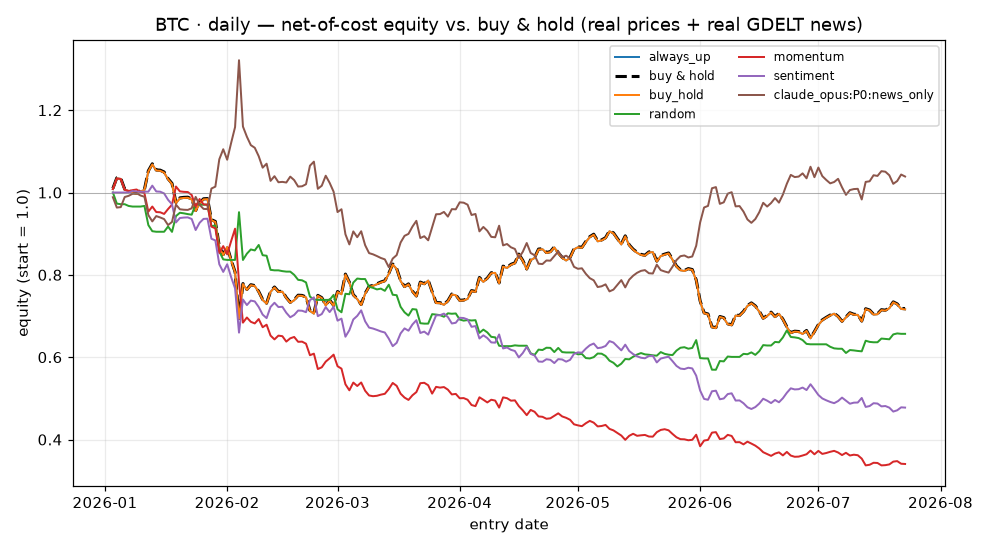
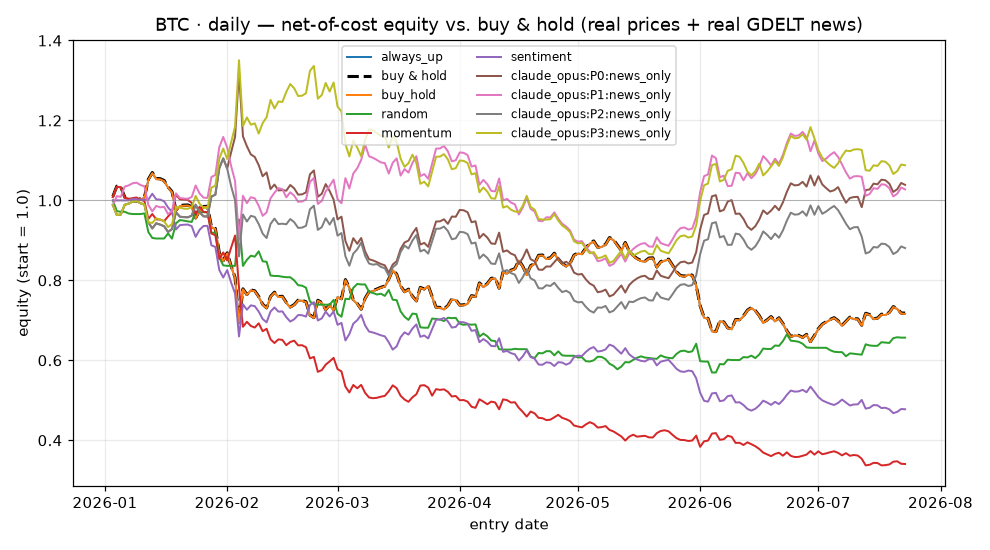
Job A news-only prompt sweep complete: negative result is prompt-robust
Full daily news-only sweep P0-P3 (all 3 assets) done. Findings:
- No prompt achieves significant directional skill (every FDR q ~ 0.94);
  accuracy stays 25-30% (below baselines) across P0/P1/P2/P3.
- SPY loses under all prompts (Sharpe -1.5 to -3.7 vs buy&hold +1.0).
- The reflexive crypto bearishness is STRUCTURAL, not a prompt artifact: Claude
  calls BTC/ETH DOWN 77-84% under every prompt, incl. chain-of-thought (P1) and
  the structured-analyst template (P2). Reasoning does not fix it.

README headline strengthened with the prompt-robustness table. news+price and
at-scale probes still running under the paced usage budget.

diff --git a/results/llm_sweep/baseline_results.md b/results/llm_sweep/baseline_results.md
@@ -9,10 +9,13 @@ Committed baseline results — the **market-performance bar** the LLM is measure
 | --- | --- | --- | --- | --- | --- | --- | --- | --- | --- | --- | --- | --- |
 | baseline_always_up | 138 | 35.51% | 59.04% | — | — | 0.697 | 0.99 | 1.01 | -9.13% | 12.67% | 1.01 | 12.77% |
 | baseline_buy_hold | 138 | 35.51% | 59.04% | — | — | 0.697 | 0.99 | 1.01 | -9.13% | 12.67% | 1.01 | 12.77% |
-| baseline_random | 138 | 41.30% | 67.31% | 0.007 | 0.068 * | 0.662 | -0.66 | -0.70 | -10.15% | -7.49% | 1.01 | 12.77% |
+| baseline_random | 138 | 41.30% | 67.31% | 0.007 | 0.130 | 0.662 | -0.66 | -0.70 | -10.15% | -7.49% | 1.01 | 12.77% |
 | baseline_momentum | 138 | 25.36% | 42.17% | 0.936 | 0.936 | 0.779 | -0.13 | -0.12 | -13.54% | -1.56% | 1.01 | 12.77% |
 | baseline_sentiment | 138 | 35.51% | 59.04% | — | — | 0.823 | 0.99 | 1.01 | -9.13% | 12.67% | 1.01 | 12.77% |
 | claude_opus:P0 | 138 | 27.54% | 45.12% | 0.856 | 0.936 | 0.700 | -3.70 | -3.24 | -25.46% | -41.38% | 1.01 | 12.77% |
+| claude_opus:P1 | 138 | 29.71% | 49.37% | 0.824 | 0.936 | 0.706 | -1.83 | -1.70 | -14.56% | -23.95% | 1.01 | 12.77% |
+| claude_opus:P2 | 138 | 26.09% | 45.57% | 0.839 | 0.936 | 0.710 | -3.11 | -2.75 | -21.71% | -36.18% | 1.01 | 12.77% |
+| claude_opus:P3 | 138 | 29.71% | 46.48% | 0.576 | 0.936 | 0.703 | -1.47 | -1.37 | -15.56% | -19.43% | 1.01 | 12.77% |
 
 ## BTC · daily  (high — primary)
 
@@ -24,6 +27,9 @@ Committed baseline results — the **market-performance bar** the LLM is measure
 | baseline_momentum | 203 | 24.14% | 44.14% | 0.901 | 0.936 | 0.845 | -3.21 | -2.74 | -67.39% | -74.35% | -0.85 | -34.78% |
 | baseline_sentiment | 203 | 24.63% | 43.81% | 0.934 | 0.936 | 0.801 | -2.20 | -1.95 | -53.98% | -60.41% | -0.85 | -34.78% |
 | claude_opus:P0 | 203 | 29.56% | 53.15% | 0.392 | 0.936 | 0.699 | 0.32 | 0.32 | -42.50% | 6.42% | -0.85 | -34.78% |
+| claude_opus:P1 | 203 | 30.05% | 53.15% | 0.356 | 0.936 | 0.707 | 0.28 | 0.29 | -27.82% | 4.96% | -0.85 | -34.78% |
+| claude_opus:P2 | 203 | 29.06% | 52.73% | 0.400 | 0.936 | 0.698 | -0.20 | -0.20 | -34.90% | -13.47% | -0.85 | -34.78% |
+| claude_opus:P3 | 203 | 27.59% | 49.04% | 0.847 | 0.936 | 0.761 | 0.46 | 0.48 | -37.53% | 12.77% | -0.85 | -34.78% |
 
 ## ETH · daily  (high — primary)
 
@@ -35,6 +41,9 @@ Committed baseline results — the **market-performance bar** the LLM is measure
 | baseline_momentum | 203 | 25.12% | 46.36% | 0.765 | 0.936 | 0.882 | -2.71 | -2.49 | -73.32% | -79.68% | -0.92 | -47.29% |
 | baseline_sentiment | 203 | 23.65% | 43.64% | — | — | 0.964 | -0.93 | -0.90 | -53.27% | -47.39% | -0.92 | -47.29% |
 | claude_opus:P0 | 203 | 29.06% | 53.70% | 0.555 | 0.936 | 0.703 | 0.08 | 0.09 | -39.14% | -9.73% | -0.92 | -47.29% |
+| claude_opus:P1 | 203 | 27.09% | 48.18% | 0.910 | 0.936 | 0.720 | 0.70 | 0.73 | -23.29% | 25.95% | -0.92 | -47.29% |
+| claude_opus:P2 | 203 | 29.06% | 54.63% | 0.587 | 0.936 | 0.700 | 0.10 | 0.10 | -29.91% | -8.69% | -0.92 | -47.29% |
+| claude_opus:P3 | 203 | 25.12% | 46.08% | 0.925 | 0.936 | 0.770 | 0.34 | 0.35 | -25.49% | 4.19% | -0.92 | -47.29% |
 
 ---
 *Data:* **real** prices (SPY via Yahoo, BTC/ETH via Binance) and **real** point-in-time news (GDELT, leakage-safe `seendate`; see `data/news/MANIFEST.json`). Scored on the news-aligned clean window. These are baselines only — the market bar the LLM must beat; no LLM has run yet.

diff --git a/README.md b/README.md
@@ -63,11 +63,22 @@ accuracy is **below the naive baselines**.
 
 Full write-up and equity curves: [`results/llm_sweep/SUMMARY.md`](results/llm_sweep/SUMMARY.md).
 
-**Scope & honesty.** This is one prompt (P0), one model, one ~6.5-month window,
-daily horizon, coarse monthly news coverage. The wider prompt sweep (P1–P3,
-news+price) and at-scale memorization probes are **partially run** — they paused
-on the Claude subscription usage limit (progress is cached and resumes on reset).
-Results are a time-stamped snapshot, not a law about markets.
+**The result is robust across prompts.** The full daily **news-only** prompt
+sweep (P0 zero-shot, P1 chain-of-thought, P2 structured-analyst, P3 sentiment)
+is complete: **no prompt achieves significant skill** (every FDR q ≈ 0.94), and
+the reflexive crypto bearishness is **structural, not a prompt artifact** —
+Claude calls BTC/ETH DOWN ~77–84% of the time under *every* prompt, including
+step-by-step reasoning:
+
+| Asset | P0 | P1 (CoT) | P2 (structured) | P3 (sentiment) |
+|---|---|---|---|---|
+| BTC DOWN-share | 84% | 77% | 81% | 78% |
+| ETH DOWN-share | 82% | 78% | 84% | 69% |
+
+**Scope & honesty.** One model, one ~6.5-month window, daily horizon, coarse
+monthly news coverage. The **news+price** condition and the at-scale memorization
+probes are still running (paced under the subscription usage limit; progress is
+cached). Results are a time-stamped snapshot, not a law about markets.
 
 ---
 
